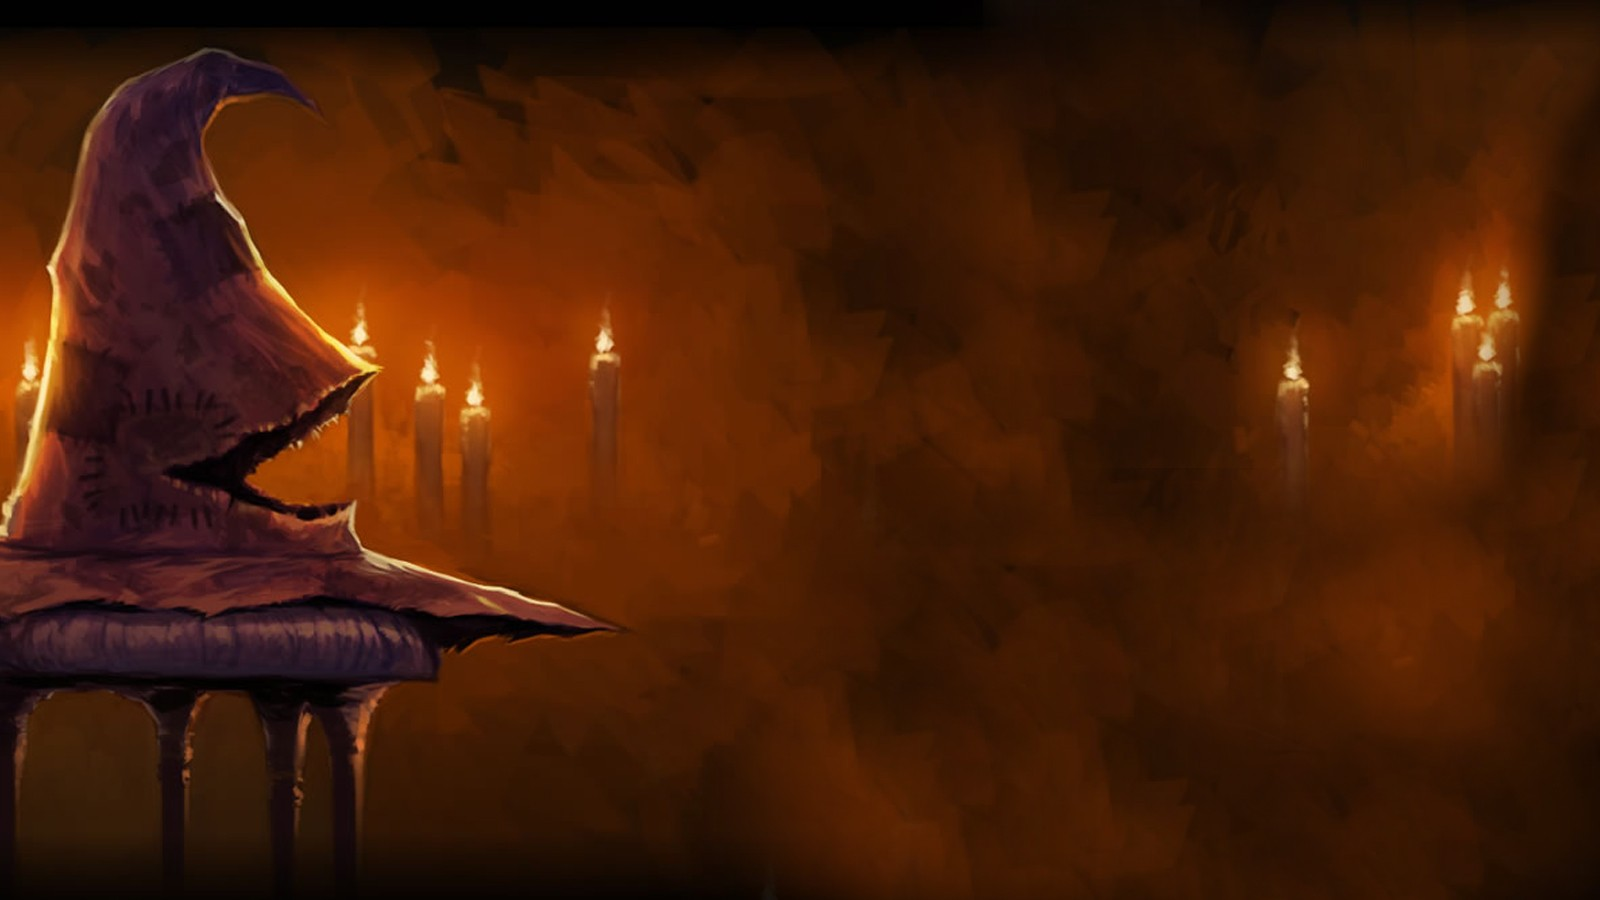
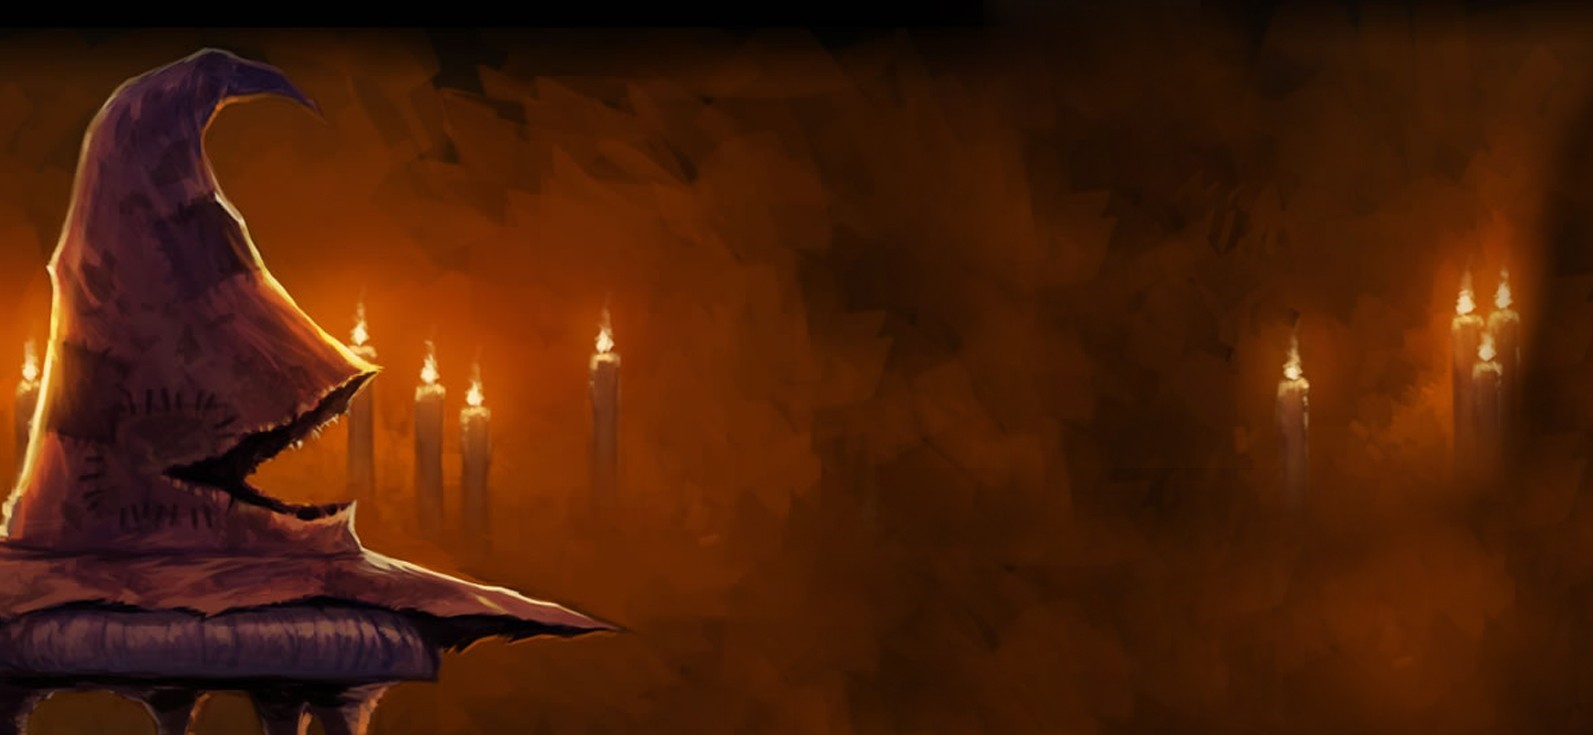
sorting hat y personajes 2 con fotos

diff --git a/html/sortingHat.html b/html/sortingHat.html
@@ -4,7 +4,7 @@
     <meta charset="utf-8">
     <meta name="viewport" content="width=device-width, initial-scale=1">
   
-    <title>Carousel</title>
+    <title>Sorting Hat</title>
 
     <link rel="canonical" href="https://getbootstrap.com/docs/5.0/examples/carousel/">
 
@@ -66,7 +66,7 @@
   
     <div class="carousel-inner">
       <div class="carousel-item active">
-        <img class="bd-placeholder-img" width="100%" height="80%" src="/media/casas.gif" aria-hidden="true" preserveAspectRatio="xMidYMid slice" focusable="false"><rect width="100%" height="100%" fill="#777"/></svg>
+        <img class="bd-placeholder-img" width="100%" height="80%" src="/media/hp4.jpg" aria-hidden="true" preserveAspectRatio="xMidYMid slice" focusable="false"><rect width="100%" height="100%" fill="#777"/></svg>
       </div>
     
   </div>
@@ -79,14 +79,23 @@
 
 <br>
 <div id="hat" >
+
   <div class="container marketing">
 
+    <br>
+    <br>
+    <br>
+    <br>
+    <br>
+    <br>
     <!-- Three columns of text below the carousel -->
     <div class="row">
+      
       <div class="col-lg-4">
-        <img class="bd-placeholder-img rounded-circle" width="300" height="300"  src="/media/shat.gif" role="img" focusable="false"></img>
+        <img class="bd-placeholder-img rounded-circle" width="300" height="300"  src="/media/sh5.jpg" role="img" focusable="false"></img>
       </div><!-- /.col-lg-l4 -->
       <div>
+        
         <h2 style="color: rosybrown;">Sorting Hat</h2>
         <p style="color: rosybrown; font-size: medium;">Mmm... que bueno verte por aquí. </p>
         <p style="color: rosybrown; font-size: medium;"> Veamos a que casa perteneces </p>

diff --git a/html/personajes2.html b/html/personajes2.html
@@ -11,7 +11,7 @@
   
       <div class="carousel-inner">
         <div class="carousel-item active">
-          <img class="bd-placeholder-img" width="100%" height="-50%" src="/media/patronus3.gif" aria-hidden="true" preserveAspectRatio="xMidYMid slice" focusable="false"><rect width="100%" height="100%" fill="#777"/></svg>
+          <img class="bd-placeholder-img" width="100%" height="-50%" src="/media/hp2.jpg" aria-hidden="true" preserveAspectRatio="xMidYMid slice" focusable="false"><rect width="100%" height="100%" fill="#777"/></svg>
         </div>
       
     </div>
@@ -24,14 +24,20 @@
     <link href="/css/cssPersonajes2.css" rel="stylesheet" type="text/css" media="all">
   </head>
 <body style="background-color: black;">
+  
   <div id="harry">
+
+  </br>
+</br>
+</br>
+</br>
   <div class="container">
     <div class="row">
       <div class="col-12">
       <table class="table table-image" style="color: grey; font: 30px 'Cinzel'  " >
 
         <thead>
-          <tr>
+          <tr  style="font: 30px 'Cinzel'" >
             <th scope="col">Foto</th>
             <th scope="col">Nombre</th>
             <th scope="col">Casa</th>
